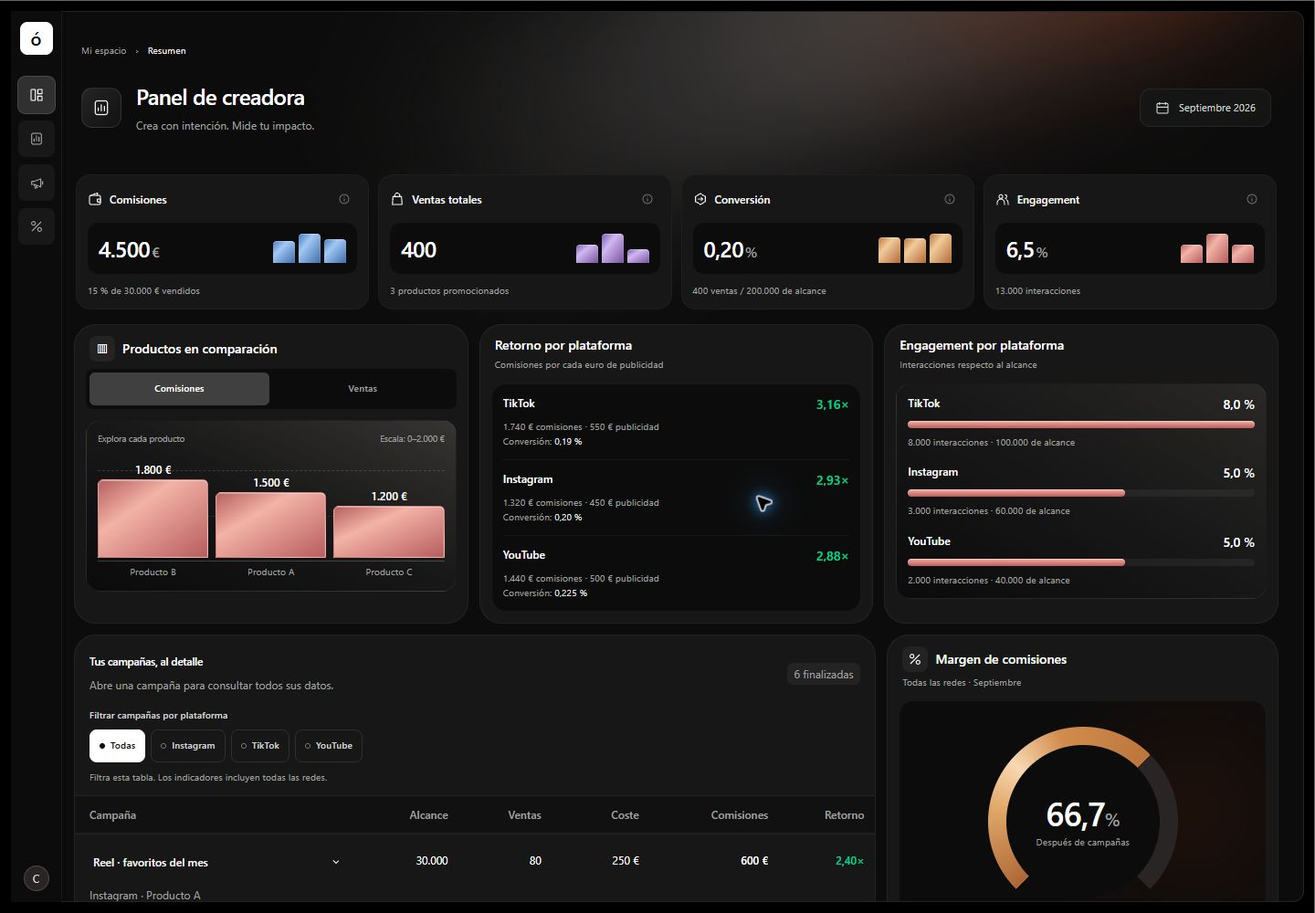
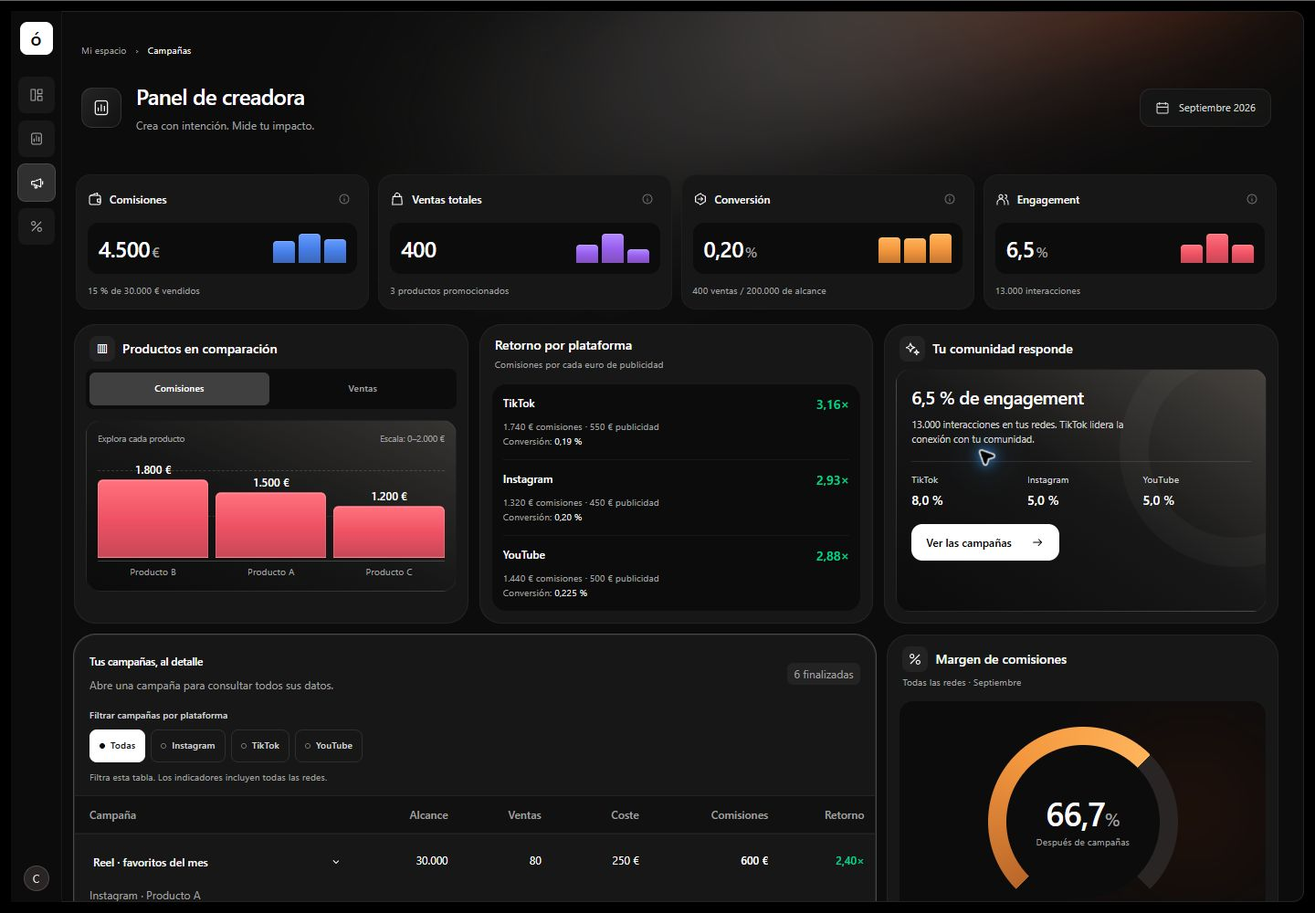
style: restore community card and add richer chart palette

diff --git a/index.html b/index.html
@@ -14,7 +14,7 @@
     <script src="https://cdn.jsdelivr.net/npm/@tailwindcss/browser@4"></script>
   </head>
   <body
-    class="p-2 font-sans text-white antialiased selection:bg-linear-to-br from-[#7959ad] via-[#d1b7f2] via-35% to-[#77539f] shadow-[inset_0_1px_0_0_#ffffff55,inset_-1px_0_0_0_#ffffff15]/40 sm:overflow-hidden sm:p-3"
+    class="p-2 font-sans text-white antialiased selection:bg-linear-to-b from-[#b28aff] via-[#985eee] to-[#8250bd] shadow-[inset_0_1px_0_0_#ffffff30]/40 sm:overflow-hidden sm:p-3"
   >
     <a
       href="#contenido"
@@ -261,7 +261,7 @@
                 >
                   4.500<span class="ml-0.5 text-base text-neutral-400">€</span>
                 </span>
-                <span role="group" aria-label="Comisiones por plataforma" class="-my-1.5 flex h-11 w-20 shrink-0 items-end gap-1"><button id="mini-commission-0" type="button" aria-label="Comisiones en Instagram: 1.320 €" aria-describedby="tip-mini-commission-0" popovertarget="tip-mini-commission-0" class="flex h-11 min-w-0 flex-1 items-end rounded-sm pb-1.5 hover:brightness-110 focus-visible:outline-2 focus-visible:outline-offset-2 focus-visible:outline-white [anchor-name:--mini-commission-0]"><span aria-hidden="true" class="flex h-8 w-full items-end"><span class="block w-full rounded-t-sm bg-linear-to-br from-[#4778bc] via-[#a2c8f5] via-35% to-[#416da9] shadow-[inset_0_1px_0_0_#ffffff55,inset_-1px_0_0_0_#ffffff15] h-[75.86%]"></span></span></button><button id="mini-commission-1" type="button" aria-label="Comisiones en TikTok: 1.740 €" aria-describedby="tip-mini-commission-1" popovertarget="tip-mini-commission-1" class="flex h-11 min-w-0 flex-1 items-end rounded-sm pb-1.5 hover:brightness-110 focus-visible:outline-2 focus-visible:outline-offset-2 focus-visible:outline-white [anchor-name:--mini-commission-1]"><span aria-hidden="true" class="flex h-8 w-full items-end"><span class="block w-full rounded-t-sm bg-linear-to-br from-[#4778bc] via-[#a2c8f5] via-35% to-[#416da9] shadow-[inset_0_1px_0_0_#ffffff55,inset_-1px_0_0_0_#ffffff15] h-[100%]"></span></span></button><button id="mini-commission-2" type="button" aria-label="Comisiones en YouTube: 1.440 €" aria-describedby="tip-mini-commission-2" popovertarget="tip-mini-commission-2" class="flex h-11 min-w-0 flex-1 items-end rounded-sm pb-1.5 hover:brightness-110 focus-visible:outline-2 focus-visible:outline-offset-2 focus-visible:outline-white [anchor-name:--mini-commission-2]"><span aria-hidden="true" class="flex h-8 w-full items-end"><span class="block w-full rounded-t-sm bg-linear-to-br from-[#4778bc] via-[#a2c8f5] via-35% to-[#416da9] shadow-[inset_0_1px_0_0_#ffffff55,inset_-1px_0_0_0_#ffffff15] h-[82.76%]"></span></span></button></span></div>
+                <span role="group" aria-label="Comisiones por plataforma" class="-my-1.5 flex h-11 w-20 shrink-0 items-end gap-1"><button id="mini-commission-0" type="button" aria-label="Comisiones en Instagram: 1.320 €" aria-describedby="tip-mini-commission-0" popovertarget="tip-mini-commission-0" class="flex h-11 min-w-0 flex-1 items-end rounded-sm pb-1.5 hover:brightness-110 focus-visible:outline-2 focus-visible:outline-offset-2 focus-visible:outline-white [anchor-name:--mini-commission-0]"><span aria-hidden="true" class="flex h-8 w-full items-end"><span class="block w-full rounded-t-sm bg-linear-to-b from-[#689dff] via-[#467fe9] to-[#3d67b9] shadow-[inset_0_1px_0_0_#ffffff30] h-[75.86%]"></span></span></button><button id="mini-commission-1" type="button" aria-label="Comisiones en TikTok: 1.740 €" aria-describedby="tip-mini-commission-1" popovertarget="tip-mini-commission-1" class="flex h-11 min-w-0 flex-1 items-end rounded-sm pb-1.5 hover:brightness-110 focus-visible:outline-2 focus-visible:outline-offset-2 focus-visible:outline-white [anchor-name:--mini-commission-1]"><span aria-hidden="true" class="flex h-8 w-full items-end"><span class="block w-full rounded-t-sm bg-linear-to-b from-[#689dff] via-[#467fe9] to-[#3d67b9] shadow-[inset_0_1px_0_0_#ffffff30] h-[100%]"></span></span></button><button id="mini-commission-2" type="button" aria-label="Comisiones en YouTube: 1.440 €" aria-describedby="tip-mini-commission-2" popovertarget="tip-mini-commission-2" class="flex h-11 min-w-0 flex-1 items-end rounded-sm pb-1.5 hover:brightness-110 focus-visible:outline-2 focus-visible:outline-offset-2 focus-visible:outline-white [anchor-name:--mini-commission-2]"><span aria-hidden="true" class="flex h-8 w-full items-end"><span class="block w-full rounded-t-sm bg-linear-to-b from-[#689dff] via-[#467fe9] to-[#3d67b9] shadow-[inset_0_1px_0_0_#ffffff30] h-[82.76%]"></span></span></button></span></div>
               <p class="mt-2.5 text-[0.65rem] leading-4 text-neutral-400">
                 15 % de 30.000 € vendidos
               </p>
@@ -327,7 +327,7 @@
                 >
                   400<span class="ml-0.5 text-base text-neutral-400"></span>
                 </span>
-                <span role="group" aria-label="Ventas por plataforma" class="-my-1.5 flex h-11 w-20 shrink-0 items-end gap-1"><button id="mini-sales-0" type="button" aria-label="Ventas en Instagram: 120 ventas" aria-describedby="tip-mini-sales-0" popovertarget="tip-mini-sales-0" class="flex h-11 min-w-0 flex-1 items-end rounded-sm pb-1.5 hover:brightness-110 focus-visible:outline-2 focus-visible:outline-offset-2 focus-visible:outline-white [anchor-name:--mini-sales-0]"><span aria-hidden="true" class="flex h-8 w-full items-end"><span class="block w-full rounded-t-sm bg-linear-to-br from-[#7959ad] via-[#d1b7f2] via-35% to-[#77539f] shadow-[inset_0_1px_0_0_#ffffff55,inset_-1px_0_0_0_#ffffff15] h-[63.16%]"></span></span></button><button id="mini-sales-1" type="button" aria-label="Ventas en TikTok: 190 ventas" aria-describedby="tip-mini-sales-1" popovertarget="tip-mini-sales-1" class="flex h-11 min-w-0 flex-1 items-end rounded-sm pb-1.5 hover:brightness-110 focus-visible:outline-2 focus-visible:outline-offset-2 focus-visible:outline-white [anchor-name:--mini-sales-1]"><span aria-hidden="true" class="flex h-8 w-full items-end"><span class="block w-full rounded-t-sm bg-linear-to-br from-[#7959ad] via-[#d1b7f2] via-35% to-[#77539f] shadow-[inset_0_1px_0_0_#ffffff55,inset_-1px_0_0_0_#ffffff15] h-[100%]"></span></span></button><button id="mini-sales-2" type="button" aria-label="Ventas en YouTube: 90 ventas" aria-describedby="tip-mini-sales-2" popovertarget="tip-mini-sales-2" class="flex h-11 min-w-0 flex-1 items-end rounded-sm pb-1.5 hover:brightness-110 focus-visible:outline-2 focus-visible:outline-offset-2 focus-visible:outline-white [anchor-name:--mini-sales-2]"><span aria-hidden="true" class="flex h-8 w-full items-end"><span class="block w-full rounded-t-sm bg-linear-to-br from-[#7959ad] via-[#d1b7f2] via-35% to-[#77539f] shadow-[inset_0_1px_0_0_#ffffff55,inset_-1px_0_0_0_#ffffff15] h-[47.37%]"></span></span></button></span></div>
+                <span role="group" aria-label="Ventas por plataforma" class="-my-1.5 flex h-11 w-20 shrink-0 items-end gap-1"><button id="mini-sales-0" type="button" aria-label="Ventas en Instagram: 120 ventas" aria-describedby="tip-mini-sales-0" popovertarget="tip-mini-sales-0" class="flex h-11 min-w-0 flex-1 items-end rounded-sm pb-1.5 hover:brightness-110 focus-visible:outline-2 focus-visible:outline-offset-2 focus-visible:outline-white [anchor-name:--mini-sales-0]"><span aria-hidden="true" class="flex h-8 w-full items-end"><span class="block w-full rounded-t-sm bg-linear-to-b from-[#b28aff] via-[#985eee] to-[#8250bd] shadow-[inset_0_1px_0_0_#ffffff30] h-[63.16%]"></span></span></button><button id="mini-sales-1" type="button" aria-label="Ventas en TikTok: 190 ventas" aria-describedby="tip-mini-sales-1" popovertarget="tip-mini-sales-1" class="flex h-11 min-w-0 flex-1 items-end rounded-sm pb-1.5 hover:brightness-110 focus-visible:outline-2 focus-visible:outline-offset-2 focus-visible:outline-white [anchor-name:--mini-sales-1]"><span aria-hidden="true" class="flex h-8 w-full items-end"><span class="block w-full rounded-t-sm bg-linear-to-b from-[#b28aff] via-[#985eee] to-[#8250bd] shadow-[inset_0_1px_0_0_#ffffff30] h-[100%]"></span></span></button><button id="mini-sales-2" type="button" aria-label="Ventas en YouTube: 90 ventas" aria-describedby="tip-mini-sales-2" popovertarget="tip-mini-sales-2" class="flex h-11 min-w-0 flex-1 items-end rounded-sm pb-1.5 hover:brightness-110 focus-visible:outline-2 focus-visible:outline-offset-2 focus-visible:outline-white [anchor-name:--mini-sales-2]"><span aria-hidden="true" class="flex h-8 w-full items-end"><span class="block w-full rounded-t-sm bg-linear-to-b from-[#b28aff] via-[#985eee] to-[#8250bd] shadow-[inset_0_1px_0_0_#ffffff30] h-[47.37%]"></span></span></button></span></div>
               <p class="mt-2.5 text-[0.65rem] leading-4 text-neutral-400">
                 3 productos promocionados
               </p>
@@ -392,7 +392,7 @@
                 >
                   0,20<span class="ml-0.5 text-base text-neutral-400">%</span>
                 </span>
-                <span role="group" aria-label="Conversión por plataforma" class="-my-1.5 flex h-11 w-20 shrink-0 items-end gap-1"><button id="mini-conversion-0" type="button" aria-label="Conversión en Instagram: 0,20 %" aria-describedby="tip-mini-conversion-0" popovertarget="tip-mini-conversion-0" class="flex h-11 min-w-0 flex-1 items-end rounded-sm pb-1.5 hover:brightness-110 focus-visible:outline-2 focus-visible:outline-offset-2 focus-visible:outline-white [anchor-name:--mini-conversion-0]"><span aria-hidden="true" class="flex h-8 w-full items-end"><span class="block w-full rounded-t-sm bg-linear-to-br from-[#b9753a] via-[#f2cb9c] via-35% to-[#b16c35] shadow-[inset_0_1px_0_0_#ffffff55,inset_-1px_0_0_0_#ffffff15] h-[88.89%]"></span></span></button><button id="mini-conversion-1" type="button" aria-label="Conversión en TikTok: 0,19 %" aria-describedby="tip-mini-conversion-1" popovertarget="tip-mini-conversion-1" class="flex h-11 min-w-0 flex-1 items-end rounded-sm pb-1.5 hover:brightness-110 focus-visible:outline-2 focus-visible:outline-offset-2 focus-visible:outline-white [anchor-name:--mini-conversion-1]"><span aria-hidden="true" class="flex h-8 w-full items-end"><span class="block w-full rounded-t-sm bg-linear-to-br from-[#b9753a] via-[#f2cb9c] via-35% to-[#b16c35] shadow-[inset_0_1px_0_0_#ffffff55,inset_-1px_0_0_0_#ffffff15] h-[84.44%]"></span></span></button><button id="mini-conversion-2" type="button" aria-label="Conversión en YouTube: 0,225 %" aria-describedby="tip-mini-conversion-2" popovertarget="tip-mini-conversion-2" class="flex h-11 min-w-0 flex-1 items-end rounded-sm pb-1.5 hover:brightness-110 focus-visible:outline-2 focus-visible:outline-offset-2 focus-visible:outline-white [anchor-name:--mini-conversion-2]"><span aria-hidden="true" class="flex h-8 w-full items-end"><span class="block w-full rounded-t-sm bg-linear-to-br from-[#b9753a] via-[#f2cb9c] via-35% to-[#b16c35] shadow-[inset_0_1px_0_0_#ffffff55,inset_-1px_0_0_0_#ffffff15] h-[100%]"></span></span></button></span></div>
+                <span role="group" aria-label="Conversión por plataforma" class="-my-1.5 flex h-11 w-20 shrink-0 items-end gap-1"><button id="mini-conversion-0" type="button" aria-label="Conversión en Instagram: 0,20 %" aria-describedby="tip-mini-conversion-0" popovertarget="tip-mini-conversion-0" class="flex h-11 min-w-0 flex-1 items-end rounded-sm pb-1.5 hover:brightness-110 focus-visible:outline-2 focus-visible:outline-offset-2 focus-visible:outline-white [anchor-name:--mini-conversion-0]"><span aria-hidden="true" class="flex h-8 w-full items-end"><span class="block w-full rounded-t-sm bg-linear-to-b from-[#ffb45c] via-[#f3973e] to-[#c57732] shadow-[inset_0_1px_0_0_#ffffff30] h-[88.89%]"></span></span></button><button id="mini-conversion-1" type="button" aria-label="Conversión en TikTok: 0,19 %" aria-describedby="tip-mini-conversion-1" popovertarget="tip-mini-conversion-1" class="flex h-11 min-w-0 flex-1 items-end rounded-sm pb-1.5 hover:brightness-110 focus-visible:outline-2 focus-visible:outline-offset-2 focus-visible:outline-white [anchor-name:--mini-conversion-1]"><span aria-hidden="true" class="flex h-8 w-full items-end"><span class="block w-full rounded-t-sm bg-linear-to-b from-[#ffb45c] via-[#f3973e] to-[#c57732] shadow-[inset_0_1px_0_0_#ffffff30] h-[84.44%]"></span></span></button><button id="mini-conversion-2" type="button" aria-label="Conversión en YouTube: 0,225 %" aria-describedby="tip-mini-conversion-2" popovertarget="tip-mini-conversion-2" class="flex h-11 min-w-0 flex-1 items-end rounded-sm pb-1.5 hover:brightness-110 focus-visible:outline-2 focus-visible:outline-offset-2 focus-visible:outline-white [anchor-name:--mini-conversion-2]"><span aria-hidden="true" class="flex h-8 w-full items-end"><span class="block w-full rounded-t-sm bg-linear-to-b from-[#ffb45c] via-[#f3973e] to-[#c57732] shadow-[inset_0_1px_0_0_#ffffff30] h-[100%]"></span></span></button></span></div>
               <p class="mt-2.5 text-[0.65rem] leading-4 text-neutral-400">
                 400 ventas / 200.000 de alcance
               </p>
@@ -461,7 +461,7 @@
                 >
                   6,5<span class="ml-0.5 text-base text-neutral-400">%</span>
                 </span>
-                <span role="group" aria-label="Engagement por plataforma" class="-my-1.5 flex h-11 w-20 shrink-0 items-end gap-1"><button id="mini-engagement-0" type="button" aria-label="Engagement en Instagram: 5 %" aria-describedby="tip-mini-engagement-0" popovertarget="tip-mini-engagement-0" class="flex h-11 min-w-0 flex-1 items-end rounded-sm pb-1.5 hover:brightness-110 focus-visible:outline-2 focus-visible:outline-offset-2 focus-visible:outline-white [anchor-name:--mini-engagement-0]"><span aria-hidden="true" class="flex h-8 w-full items-end"><span class="block w-full rounded-t-sm bg-linear-to-br from-[#b65f60] via-[#f3b3a7] via-35% to-[#b75d60] shadow-[inset_0_1px_0_0_#ffffff55,inset_-1px_0_0_0_#ffffff15] h-[62.5%]"></span></span></button><button id="mini-engagement-1" type="button" aria-label="Engagement en TikTok: 8 %" aria-describedby="tip-mini-engagement-1" popovertarget="tip-mini-engagement-1" class="flex h-11 min-w-0 flex-1 items-end rounded-sm pb-1.5 hover:brightness-110 focus-visible:outline-2 focus-visible:outline-offset-2 focus-visible:outline-white [anchor-name:--mini-engagement-1]"><span aria-hidden="true" class="flex h-8 w-full items-end"><span class="block w-full rounded-t-sm bg-linear-to-br from-[#b65f60] via-[#f3b3a7] via-35% to-[#b75d60] shadow-[inset_0_1px_0_0_#ffffff55,inset_-1px_0_0_0_#ffffff15] h-[100%]"></span></span></button><button id="mini-engagement-2" type="button" aria-label="Engagement en YouTube: 5 %" aria-describedby="tip-mini-engagement-2" popovertarget="tip-mini-engagement-2" class="flex h-11 min-w-0 flex-1 items-end rounded-sm pb-1.5 hover:brightness-110 focus-visible:outline-2 focus-visible:outline-offset-2 focus-visible:outline-white [anchor-name:--mini-engagement-2]"><span aria-hidden="true" class="flex h-8 w-full items-end"><span class="block w-full rounded-t-sm bg-linear-to-br from-[#b65f60] via-[#f3b3a7] via-35% to-[#b75d60] shadow-[inset_0_1px_0_0_#ffffff55,inset_-1px_0_0_0_#ffffff15] h-[62.5%]"></span></span></button></span></div>
+                <span role="group" aria-label="Engagement por plataforma" class="-my-1.5 flex h-11 w-20 shrink-0 items-end gap-1"><button id="mini-engagement-0" type="button" aria-label="Engagement en Instagram: 5 %" aria-describedby="tip-mini-engagement-0" popovertarget="tip-mini-engagement-0" class="flex h-11 min-w-0 flex-1 items-end rounded-sm pb-1.5 hover:brightness-110 focus-visible:outline-2 focus-visible:outline-offset-2 focus-visible:outline-white [anchor-name:--mini-engagement-0]"><span aria-hidden="true" class="flex h-8 w-full items-end"><span class="block w-full rounded-t-sm bg-linear-to-b from-[#ff727d] via-[#ef5264] to-[#c84858] shadow-[inset_0_1px_0_0_#ffffff30] h-[62.5%]"></span></span></button><button id="mini-engagement-1" type="button" aria-label="Engagement en TikTok: 8 %" aria-describedby="tip-mini-engagement-1" popovertarget="tip-mini-engagement-1" class="flex h-11 min-w-0 flex-1 items-end rounded-sm pb-1.5 hover:brightness-110 focus-visible:outline-2 focus-visible:outline-offset-2 focus-visible:outline-white [anchor-name:--mini-engagement-1]"><span aria-hidden="true" class="flex h-8 w-full items-end"><span class="block w-full rounded-t-sm bg-linear-to-b from-[#ff727d] via-[#ef5264] to-[#c84858] shadow-[inset_0_1px_0_0_#ffffff30] h-[100%]"></span></span></button><button id="mini-engagement-2" type="button" aria-label="Engagement en YouTube: 5 %" aria-describedby="tip-mini-engagement-2" popovertarget="tip-mini-engagement-2" class="flex h-11 min-w-0 flex-1 items-end rounded-sm pb-1.5 hover:brightness-110 focus-visible:outline-2 focus-visible:outline-offset-2 focus-visible:outline-white [anchor-name:--mini-engagement-2]"><span aria-hidden="true" class="flex h-8 w-full items-end"><span class="block w-full rounded-t-sm bg-linear-to-b from-[#ff727d] via-[#ef5264] to-[#c84858] shadow-[inset_0_1px_0_0_#ffffff30] h-[62.5%]"></span></span></button></span></div>
               <p class="mt-2.5 text-[0.65rem] leading-4 text-neutral-400">
                 13.000 interacciones
               </p>
@@ -567,13 +567,13 @@
                       >
                         <span class="relative block h-24"
                           ><span
-                            class="bar absolute inset-x-0 bottom-0 block h-[90%] rounded-t-md border border-white/15 bg-linear-to-br from-[#b65f60] via-[#f3b3a7] via-35% to-[#b75d60] shadow-[inset_0_1px_0_0_#ffffff55,inset_-1px_0_0_0_#ffffff15] group-hover/bar:brightness-110 [article:has(#chart-sales:checked)_&]:hidden"
+                            class="bar absolute inset-x-0 bottom-0 block h-[90%] rounded-t-md border border-white/15 bg-linear-to-b from-[#ff727d] via-[#ef5264] to-[#c84858] shadow-[inset_0_1px_0_0_#ffffff30] group-hover/bar:brightness-110 [article:has(#chart-sales:checked)_&]:hidden"
                             ><span
                               class="absolute -top-5 inset-x-0 whitespace-nowrap text-center text-xs font-medium tabular-nums"
                               >1.800 €</span
                             ></span
                           ><span
-                            class="bar absolute inset-x-0 bottom-0 hidden h-[50%] rounded-t-md border border-white/15 bg-linear-to-br from-[#b65f60] via-[#f3b3a7] via-35% to-[#b75d60] shadow-[inset_0_1px_0_0_#ffffff55,inset_-1px_0_0_0_#ffffff15] group-hover/bar:brightness-110 [article:has(#chart-sales:checked)_&]:block"
+                            class="bar absolute inset-x-0 bottom-0 hidden h-[50%] rounded-t-md border border-white/15 bg-linear-to-b from-[#ff727d] via-[#ef5264] to-[#c84858] shadow-[inset_0_1px_0_0_#ffffff30] group-hover/bar:brightness-110 [article:has(#chart-sales:checked)_&]:block"
                             ><span
                               class="absolute -top-5 inset-x-0 text-center text-xs font-medium tabular-nums"
                               >100</span
@@ -616,13 +616,13 @@
                       >
                         <span class="relative block h-24"
                           ><span
-                            class="bar absolute inset-x-0 bottom-0 block h-[75%] rounded-t-md border border-white/15 bg-linear-to-br from-[#b65f60] via-[#f3b3a7] via-35% to-[#b75d60] shadow-[inset_0_1px_0_0_#ffffff55,inset_-1px_0_0_0_#ffffff15] group-hover/bar:brightness-110 [article:has(#chart-sales:checked)_&]:hidden"
+                            class="bar absolute inset-x-0 bottom-0 block h-[75%] rounded-t-md border border-white/15 bg-linear-to-b from-[#ff727d] via-[#ef5264] to-[#c84858] shadow-[inset_0_1px_0_0_#ffffff30] group-hover/bar:brightness-110 [article:has(#chart-sales:checked)_&]:hidden"
                             ><span
                               class="absolute -top-5 inset-x-0 whitespace-nowrap text-center text-xs font-medium tabular-nums"
                               >1.500 €</span
                             ></span
                           ><span
-                            class="bar absolute inset-x-0 bottom-0 hidden h-[100%] rounded-t-md border border-white/15 bg-linear-to-br from-[#b65f60] via-[#f3b3a7] via-35% to-[#b75d60] shadow-[inset_0_1px_0_0_#ffffff55,inset_-1px_0_0_0_#ffffff15] group-hover/bar:brightness-110 [article:has(#chart-sales:checked)_&]:block"
+                            class="bar absolute inset-x-0 bottom-0 hidden h-[100%] rounded-t-md border border-white/15 bg-linear-to-b from-[#ff727d] via-[#ef5264] to-[#c84858] shadow-[inset_0_1px_0_0_#ffffff30] group-hover/bar:brightness-110 [article:has(#chart-sales:checked)_&]:block"
                             ><span
                               class="absolute -top-5 inset-x-0 text-center text-xs font-medium tabular-nums"
                               >200</span
@@ -665,13 +665,13 @@
                       >
                         <span class="relative block h-24"
                           ><span
-                            class="bar absolute inset-x-0 bottom-0 block h-[60%] rounded-t-md border border-white/15 bg-linear-to-br from-[#b65f60] via-[#f3b3a7] via-35% to-[#b75d60] shadow-[inset_0_1px_0_0_#ffffff55,inset_-1px_0_0_0_#ffffff15] group-hover/bar:brightness-110 [article:has(#chart-sales:checked)_&]:hidden"
+                            class="bar absolute inset-x-0 bottom-0 block h-[60%] rounded-t-md border border-white/15 bg-linear-to-b from-[#ff727d] via-[#ef5264] to-[#c84858] shadow-[inset_0_1px_0_0_#ffffff30] group-hover/bar:brightness-110 [article:has(#chart-sales:checked)_&]:hidden"
                             ><span
                               class="absolute -top-5 inset-x-0 whitespace-nowrap text-center text-xs font-medium tabular-nums"
                               >1.200 €</span
                             ></span
                           ><span
-                            class="bar absolute inset-x-0 bottom-0 hidden h-[50%] rounded-t-md border border-white/15 bg-linear-to-br from-[#b65f60] via-[#f3b3a7] via-35% to-[#b75d60] shadow-[inset_0_1px_0_0_#ffffff55,inset_-1px_0_0_0_#ffffff15] group-hover/bar:brightness-110 [article:has(#chart-sales:checked)_&]:block"
+                            class="bar absolute inset-x-0 bottom-0 hidden h-[50%] rounded-t-md border border-white/15 bg-linear-to-b from-[#ff727d] via-[#ef5264] to-[#c84858] shadow-[inset_0_1px_0_0_#ffffff30] group-hover/bar:brightness-110 [article:has(#chart-sales:checked)_&]:block"
                             ><span
                               class="absolute -top-5 inset-x-0 text-center text-xs font-medium tabular-nums"
                               >100</span
@@ -767,61 +767,73 @@
             <article
               class="flex min-w-0 flex-col rounded-3xl border border-white/5 bg-[#171717] p-3 md:col-span-2 lg:col-span-1"
             >
-              <h3 class="mb-1 px-1 text-sm font-medium">
-                Engagement por plataforma
+              <h3 class="mb-2 flex items-center gap-2 px-1 text-sm font-medium">
+                <span
+                  class="flex size-7 items-center justify-center rounded-lg bg-white/5"
+                  ><svg
+                    aria-hidden="true"
+                    class="size-4"
+                    viewBox="0 0 24 24"
+                    fill="none"
+                    stroke="currentColor"
+                    stroke-width="1.7"
+                    stroke-linecap="round"
+                    stroke-linejoin="round"
+                  >
+                    <path
+                      d="m9 3 2 5 5 2-5 2-2 5-2-5-5-2 5-2zM19 14l1 3 3 1-3 1-1 3-1-3-3-1 3-1z"
+                    ></path></svg></span
+                >Tu comunidad responde
               </h3>
-              <p class="mb-3 px-1 text-[0.65rem] text-neutral-400">
-                Interacciones respecto al alcance
-              </p>
-              <dl
-                class="space-y-4 rounded-2xl border border-white/5 bg-linear-to-bl from-stone-600/30 via-neutral-900 to-[#0b0b0b] p-3"
+              <div
+                class="relative isolate flex min-h-48 flex-1 flex-col overflow-hidden rounded-2xl border border-white/5 bg-linear-to-bl from-stone-600/75 via-neutral-900 to-[#0b0b0b] p-4"
               >
-                <div class="grid grid-cols-2 gap-y-2">
-                  <dt class="text-xs font-medium">TikTok</dt>
-                  <dd class="text-right text-sm font-medium tabular-nums">
-                    8,0 %
-                  </dd>
-                  <div
-                    aria-hidden="true"
-                    class="col-span-2 h-2 rounded-full bg-white/5"
-                  >
-                    <div class="h-2 w-[100%] rounded-full bg-linear-to-b from-[#f3b3a7] via-[#d9847e] to-[#b75d60] shadow-[inset_0_1px_0_0_#ffffff55]"></div>
+                <div
+                  aria-hidden="true"
+                  class="pointer-events-none absolute -top-10 -right-24 -z-10 size-64 rounded-full border-[2rem] border-white/[0.03]"
+                ></div>
+                <p class="text-xl font-medium tracking-tight">
+                  6,5 % de engagement
+                </p>
+                <p
+                  class="mt-2 max-w-64 text-[0.67rem] leading-4 text-neutral-300"
+                >
+                  13.000 interacciones en tus redes. TikTok lidera la conexión
+                  con tu comunidad.
+                </p>
+                <dl
+                  class="mt-4 grid grid-cols-3 gap-2 border-t border-white/10 pt-3 text-[0.65rem]"
+                >
+                  <div>
+                    <dt class="text-neutral-300">TikTok</dt>
+                    <dd class="mt-1 text-sm font-medium tabular-nums">8,0 %</dd>
                   </div>
-                  <dd class="col-span-2 text-[0.65rem] text-neutral-400">
-                    8.000 interacciones · 100.000 de alcance
-                  </dd>
-                </div>
-                <div class="grid grid-cols-2 gap-y-2">
-                  <dt class="text-xs font-medium">Instagram</dt>
-                  <dd class="text-right text-sm font-medium tabular-nums">
-                    5,0 %
-                  </dd>
-                  <div
-                    aria-hidden="true"
-                    class="col-span-2 h-2 rounded-full bg-white/5"
-                  >
-                    <div class="h-2 w-[62.5%] rounded-full bg-linear-to-b from-[#f3b3a7] via-[#d9847e] to-[#b75d60] shadow-[inset_0_1px_0_0_#ffffff55]"></div>
+                  <div>
+                    <dt class="text-neutral-300">Instagram</dt>
+                    <dd class="mt-1 text-sm font-medium tabular-nums">5,0 %</dd>
                   </div>
-                  <dd class="col-span-2 text-[0.65rem] text-neutral-400">
-                    3.000 interacciones · 60.000 de alcance
-                  </dd>
-                </div>
-                <div class="grid grid-cols-2 gap-y-2">
-                  <dt class="text-xs font-medium">YouTube</dt>
-                  <dd class="text-right text-sm font-medium tabular-nums">
-                    5,0 %
-                  </dd>
-                  <div
-                    aria-hidden="true"
-                    class="col-span-2 h-2 rounded-full bg-white/5"
-                  >
-                    <div class="h-2 w-[62.5%] rounded-full bg-linear-to-b from-[#f3b3a7] via-[#d9847e] to-[#b75d60] shadow-[inset_0_1px_0_0_#ffffff55]"></div>
+                  <div>
+                    <dt class="text-neutral-300">YouTube</dt>
+                    <dd class="mt-1 text-sm font-medium tabular-nums">5,0 %</dd>
                   </div>
-                  <dd class="col-span-2 text-[0.65rem] text-neutral-400">
-                    2.000 interacciones · 40.000 de alcance
-                  </dd>
-                </div>
-              </dl>
+                </dl>
+                <a
+                  href="#campanas"
+                  class="mt-4 flex min-h-10 w-fit items-center gap-5 rounded-xl bg-white px-4 py-2 text-xs font-medium text-black hover:bg-neutral-200 focus-visible:outline-2 focus-visible:outline-offset-4 focus-visible:outline-white motion-safe:transition-transform motion-safe:duration-150 motion-safe:ease-[cubic-bezier(0.23,1,0.32,1)] motion-safe:active:scale-[0.97] focus-visible:transition-none focus-visible:active:scale-100"
+                  >Ver las campañas
+                  <svg
+                    aria-hidden="true"
+                    class="size-4"
+                    viewBox="0 0 24 24"
+                    fill="none"
+                    stroke="currentColor"
+                    stroke-width="1.7"
+                    stroke-linecap="round"
+                    stroke-linejoin="round"
+                  >
+                    <path d="M5 12h14M14 7l5 5-5 5"></path></svg
+                ></a>
+              </div>
             </article>
           </div>
         </section>
@@ -1621,7 +1633,7 @@
                 class="absolute top-10 right-0 -z-10 size-40 rounded-full bg-orange-800/20 blur-3xl"
               ></div>
               <div
-                class="relative mx-auto size-52 rounded-full bg-[conic-gradient(from_225deg,#ad6736_0deg,#e2a96b_55deg,#f8d8b2_85deg,#d28d4d_120deg,#bc763d_180deg,#292524_180deg_270deg,transparent_270deg_360deg)]"
+                class="relative mx-auto size-52 rounded-full bg-[conic-gradient(from_225deg,#bb672a_0deg,#f3973e_90deg,#ffb45c_180deg,#292524_180deg_270deg,transparent_270deg_360deg)]"
               >
                 <div
                   class="absolute inset-5 flex flex-col items-center justify-center rounded-full bg-[#0c0c0c]"

diff --git a/README.md b/README.md
@@ -24,7 +24,7 @@ Visita http://127.0.0.1:5500. Python solo sirve los archivos durante el desarrol
 
 ## Diseño e interacción
 
-La referencia proporcionada guía el fondo negro, las tarjetas oscuras redondeadas, el reflejo cálido, las barras de color y el indicador circular cálido. La paleta de estadísticas usa azul acero, violeta titanio, cobre y coral cobrizo, con reflejos diagonales y bordes iluminados que aportan un acabado metálico sobre las superficies oscuras.
+La referencia proporcionada guía el fondo negro, las tarjetas oscuras redondeadas, el reflejo cálido, las barras de color y el indicador circular cálido. La paleta de estadísticas usa azul zafiro, violeta, ámbar y coral rubí, con degradados intensos y reflejos discretos sobre las superficies oscuras. La tarjeta de comunidad conserva el fondo con profundidad, el aro decorativo, el resumen por red y el acceso directo a campañas.
 
 En móvil, los cuatro KPIs forman un grupo horizontal deslizable con ajuste por tarjeta. Se ve parte de la siguiente tarjeta y una pista breve indica cómo descubrir las demás. El grupo recibe foco y admite flechas del teclado; los botones de ayuda también llevan el foco a cada tarjeta. Solo este grupo se desplaza horizontalmente, sin ampliar el ancho de la página. Desde sm se muestran dos columnas y desde lg, cuatro.
 
